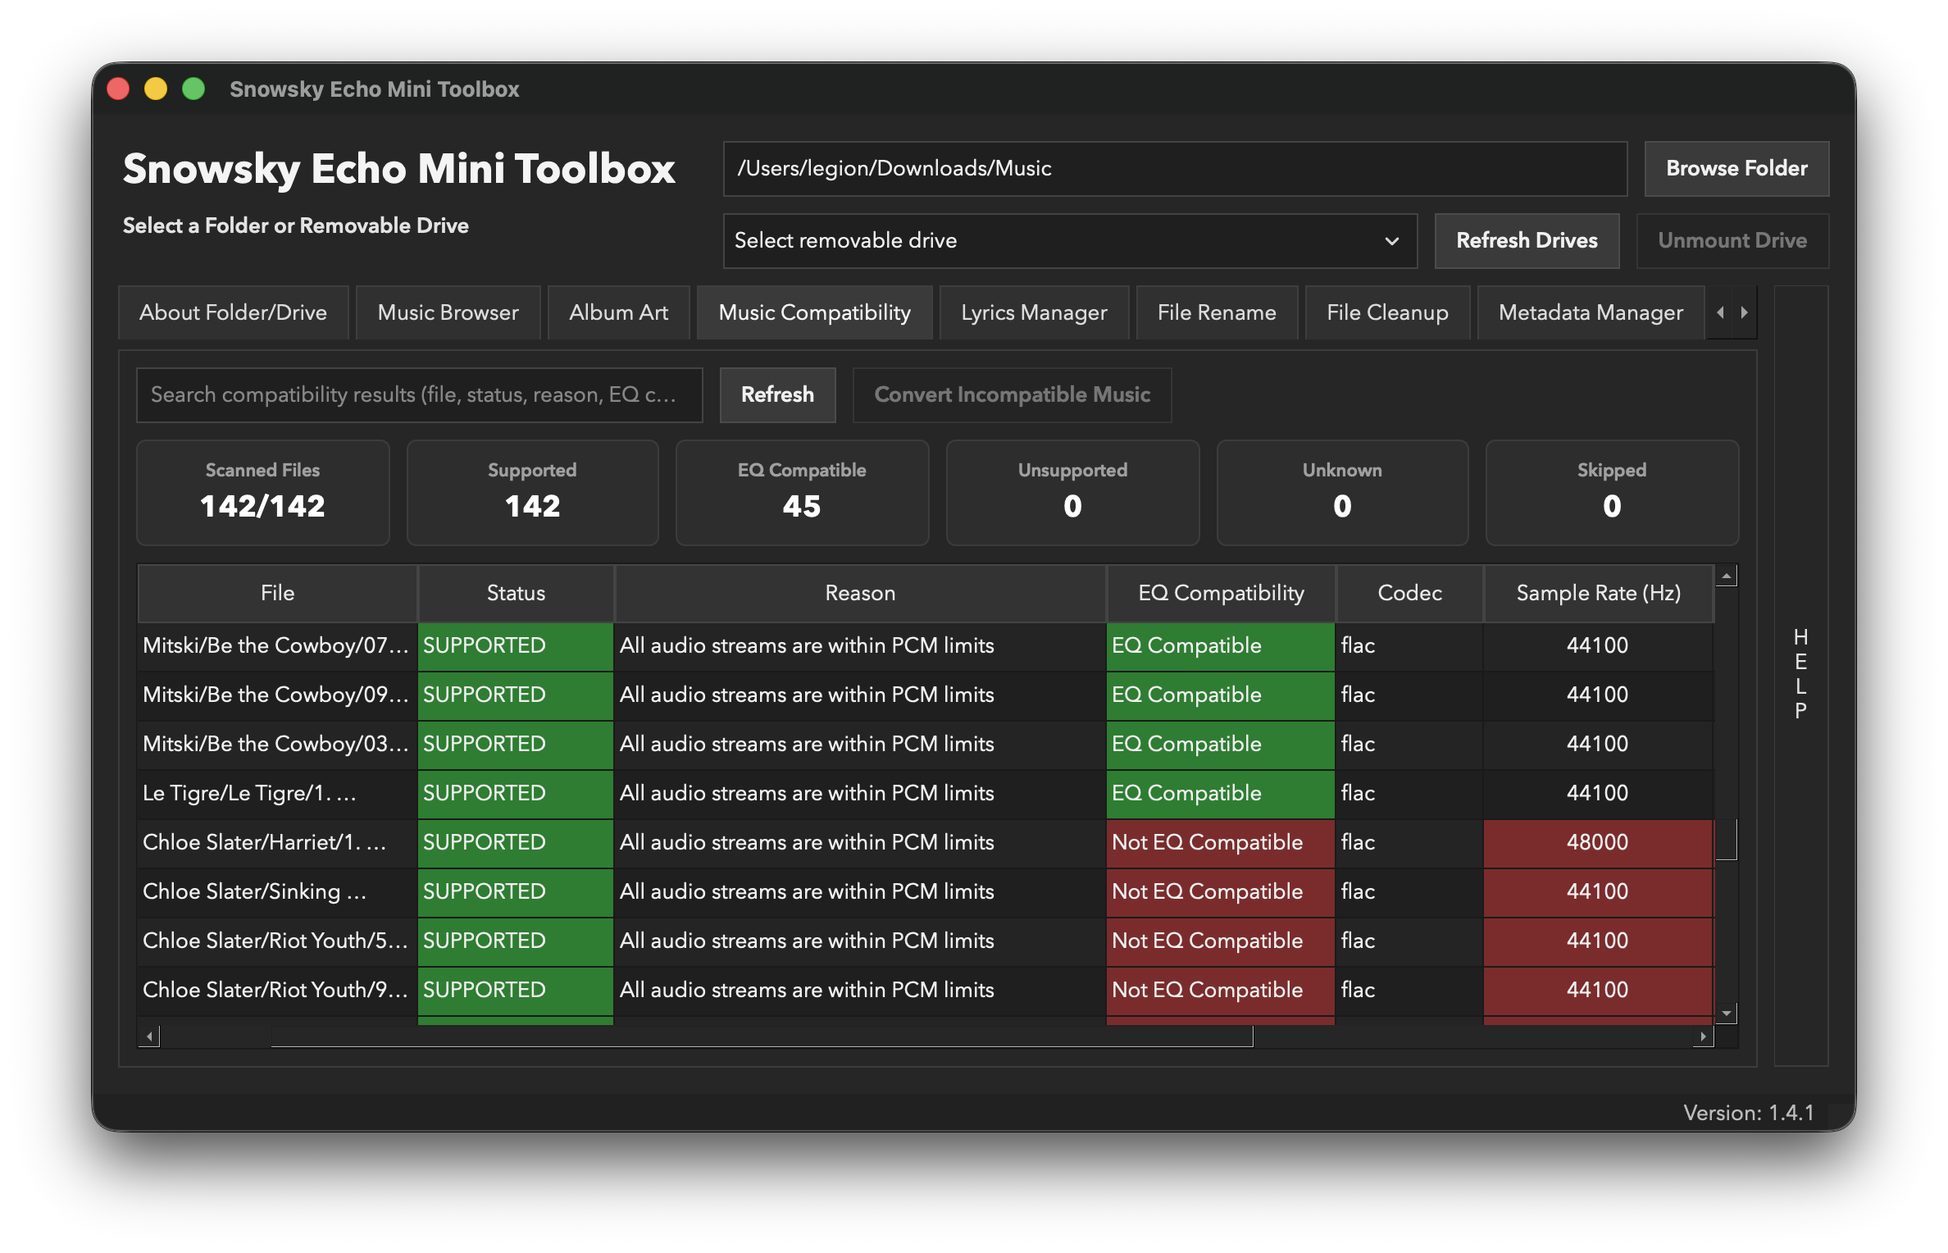
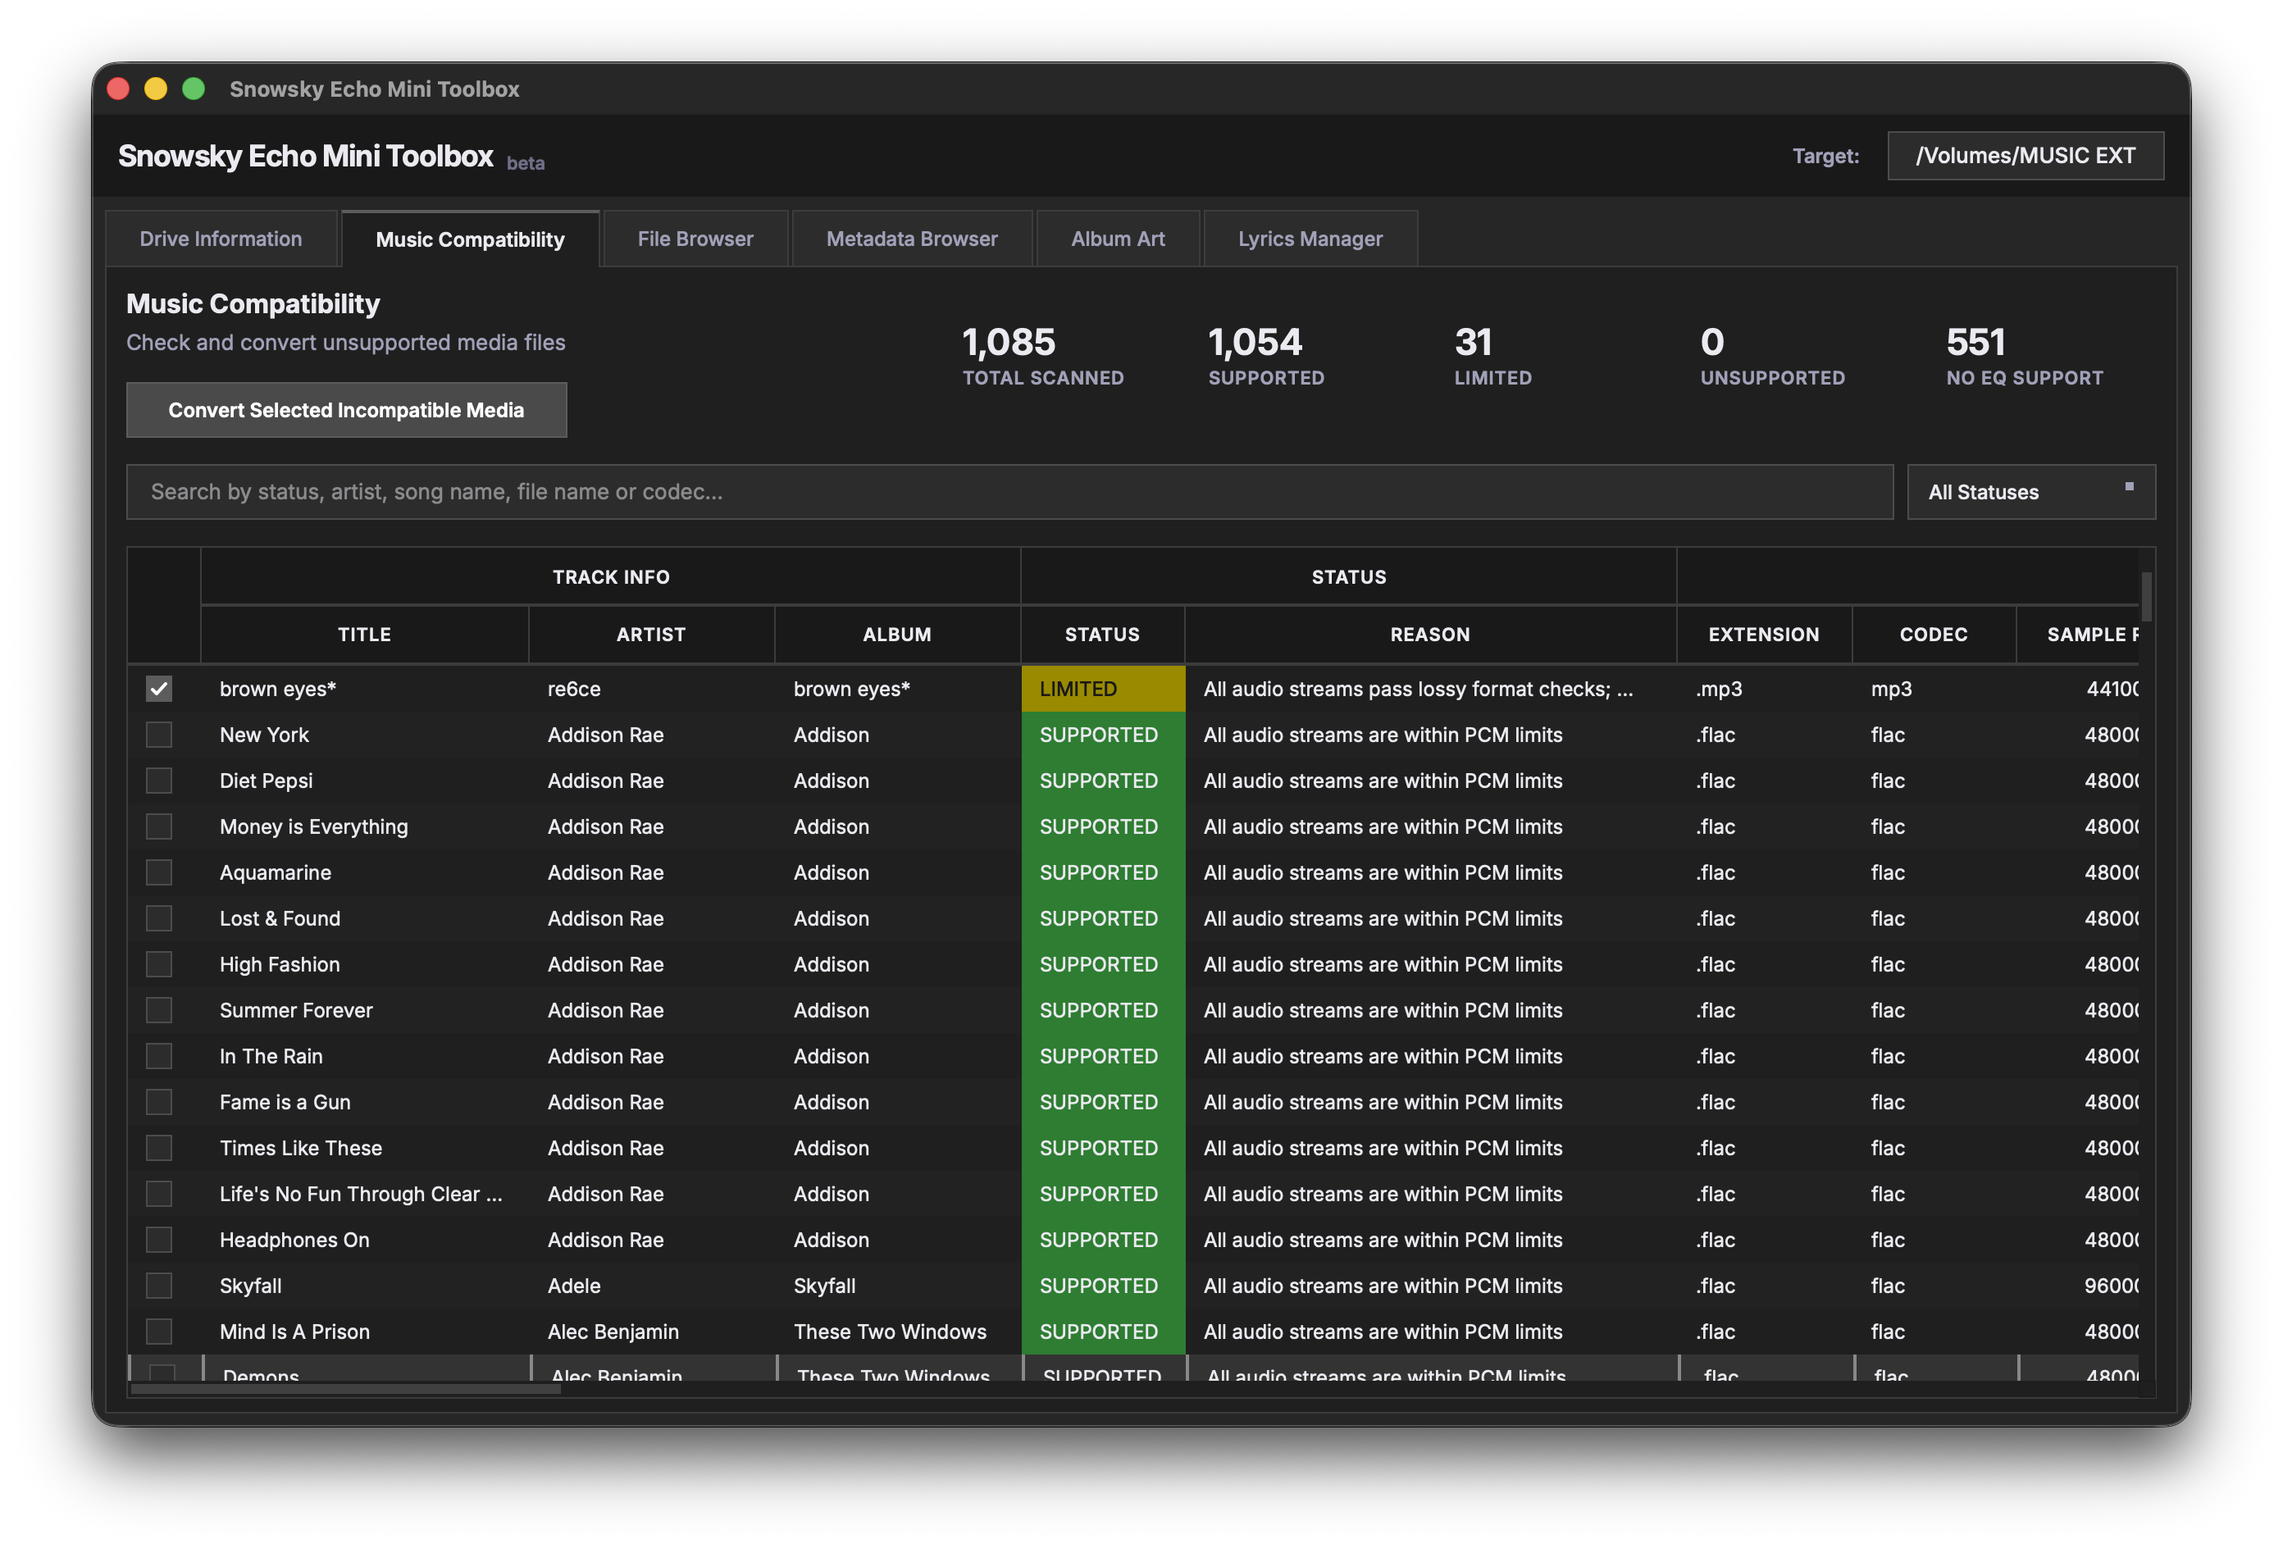
chore: update README with new features and improve project visibility; replace Overview image

diff --git a/README.md b/README.md
@@ -1,113 +1,142 @@
+<div align="center">
+
 # Snowsky Echo Mini Toolbox
 
-[![Python 3.12](https://img.shields.io/badge/python-3.12%2B-3776AB)](https://www.python.org/)
-[![Platforms](https://img.shields.io/badge/platform-macOS%20%7C%20Linux%20%7C%20Windows-0A7E07)](#requirements)
-[![UI](https://img.shields.io/badge/UI-PySide6-41CD52)](https://doc.qt.io/qtforpython-6/)
-![Status](https://img.shields.io/badge/status-active%20development-2ea44f)
+**Get your music library playing properly on the Snowsky Echo Mini, without the guesswork.**
 
-An easy (unofficial) desktop app to prepare your music folders and USB drives for the Snowsky Echo Mini. 
+[![Latest release](https://img.shields.io/github/v/release/silent-sphinx/snowsky-echo-mini-toolbox?display_name=tag&label=latest%20release&color=2ea44f)](https://github.com/silent-sphinx/snowsky-echo-mini-toolbox/releases/latest)
+[![Downloads](https://img.shields.io/github/downloads/silent-sphinx/snowsky-echo-mini-toolbox/total?label=downloads&color=0A7E07)](https://github.com/silent-sphinx/snowsky-echo-mini-toolbox/releases)
+[![Build](https://img.shields.io/github/actions/workflow/status/silent-sphinx/snowsky-echo-mini-toolbox/release.yml?label=build)](https://github.com/silent-sphinx/snowsky-echo-mini-toolbox/actions/workflows/release.yml)
+[![Open issues](https://img.shields.io/github/issues/silent-sphinx/snowsky-echo-mini-toolbox?color=orange)](https://github.com/silent-sphinx/snowsky-echo-mini-toolbox/issues)
 
-> This branch is a rewrite of the Snowsky Echo Mini Toolbox tool. Find the current software version in main.
+[![Python 3.12+](https://img.shields.io/badge/python-3.12%2B-3776AB?logo=python&logoColor=white)](https://www.python.org/)
+[![PySide6](https://img.shields.io/badge/UI-PySide6-41CD52?logo=qt&logoColor=white)](https://doc.qt.io/qtforpython-6/)
+[![Platforms](https://img.shields.io/badge/platform-macOS%20%7C%20Windows%20%7C%20Linux-0A7E07)](#2-download-the-app)
+[![Unofficial](https://img.shields.io/badge/status-unofficial%20community%20tool-8957e5)](#about-this-project)
 
-![Overview](Overview.png)
+[Get started](#get-started) · [Features](#features) · [Compatibility rules](COMPATIBILITY.md) · [Troubleshooting](#troubleshooting) · [Contributing](#contributing)
 
-The Snowsky Echo Mini is a fantastic little device, but its affordable hardware can sometimes limit compatibility and available features. This tool aims to remove the hassle of getting your music ready to play by automatically identifying incompatible media and converting it to a supported format. It can also fix album artwork and download lyrics, giving you everything you need to enjoy your music without the usual compatibility headaches.
+![Overview of the Snowsky Echo Mini Toolbox interface](Overview.png)
 
-<!-- TOC -->
+</div>
 
-- [Snowsky Echo Mini Toolbox](#snowsky-echo-mini-toolbox)
-    - [Main Features](#main-features)
-    - [Please Backup Your Data](#please-backup-your-data)
-    - [Installation](#installation)
-        - [Required Dependencies Linux Only](#required-dependencies-linux-only)
-        - [Supported Operating Systems](#supported-operating-systems)
-            - [Notice for Windows Users](#notice-for-windows-users)
-                - [Setup Instructions](#setup-instructions)
-    - [Build from source](#build-from-source)
-    - [Compatibility Rules](#compatibility-rules)
-    - [Contributing](#contributing)
-    - [Troubleshooting](#troubleshooting)
-        - [macOS App Fails to Open Stuck Bouncing in Dock](#macos-app-fails-to-open-stuck-bouncing-in-dock)
+The Snowsky Echo Mini is a fantastic little player, but its affordable hardware brings real limits: only certain codecs play, album art has to be encoded a very specific way, and unusual tags can confuse the on-device browser. Tracks that work everywhere else can silently refuse to appear.
 
-<!-- /TOC -->
+This toolbox points at a folder or USB drive, scans everything in it, and tells you exactly what the device will reject, then fixes it for you. Convert incompatible audio, repair or download album art, tidy metadata, and get lyrics in place, all without touching a command line.
 
-## Main Features
+> [!NOTE]
+> This is the `v2` branch, a ground-up rewrite of the app. The version published on the [Releases page](https://github.com/silent-sphinx/snowsky-echo-mini-toolbox/releases/latest) is built from `main` and is what you should install today. See [Rewrite status](#rewrite-status) for what has landed in the rewrite so far.
 
-- **Music Compatibility**:
-  - Identify incompatible media and auto-fix.
-- **Album Art**:
-  - Identify incompatible album art and auto-fix.
-  - Download new album art via the MusicBrainz API and Cover Art Archive.
-- **Lyrics Manager**:
-  - Identify embedded lyrics and convert them to compatible `.lrc` files.
-  - Download new lyrics via LRCLIB bulk lookup.
-- **Metadata Manager**:
-  - Edit audio tags and properties in bulk.
-- **File Rename**:
-  - Suggest cleaner file names from metadata before applying changes.
-- **File Cleanup**:
-  - Group files by type so you can safely remove unwanted categories.
-- **Backup & Restore**:
-  - Create ZIP backups, or copy/move your library to another location.
+## Get started
 
-## Please Backup Your Data
+### 1. Back up your music first
 
-- This program will directly edit music files on your selected device. This can result in unintended data loss, it is always RECOMMENDED to use the backup tools provided to ensure you have a second copy of your data in-case of failure.
+> [!WARNING]
+> This program edits music files on your device in place. Conversions, tag edits, and artwork fixes overwrite real data. Always keep a second copy of your library before running a fix. The built-in Backup/Restore tools can create one for you.
 
-## Installation
+### 2. Download the app
 
-Locate the Releases page for this project and select the correct installation file for your system architecture.
+Grab the file for your system from the [latest release](https://github.com/silent-sphinx/snowsky-echo-mini-toolbox/releases/latest). No Python, no ffmpeg install, nothing else to set up. Everything is bundled.
 
-### Required Dependencies (Linux Only)
+| Your system | Download | Install |
+| --- | --- | --- |
+| macOS (Apple Silicon) | `...macOS-arm64.dmg` | [Extra step required](#macos-first-launch) |
+| macOS (Intel) | `...macOS-x64.dmg` | [Extra step required](#macos-first-launch) |
+| Windows (64-bit) | `...Windows-Setup.exe` | [Please read first](#windows-smart-app-control) |
+| Linux (amd64, Debian/Ubuntu) | `..._amd64.deb` | `sudo apt install ./<file>.deb` |
+| Linux (amd64, portable) | `...linux-amd64.tar.gz` | [Extra libraries required](#linux-portable-tarball) |
+
+### 3. Point it at your music
+
+Launch the app and pick a target when prompted: either your Echo Mini's USB drive or any folder on your computer. The toolbox scans it once, then every tab works from that single scan.
+
+From there, work through the tabs that flag problems. Each one shows you what it found before it changes anything.
+
+## Features
+
+- **Drive information**: capacity, file counts, and a breakdown of what is actually on the device.
+- **Music compatibility**: deep `ffprobe` analysis of every track against the device's real firmware limits, with one-click conversion of anything unsupported.
+- **File browser**: inspect any file's properties, tags, embedded artwork, and lyrics side by side.
+- **Metadata browser**: edit and normalise audio tags in bulk, including the non-standard tags that confuse the device's parser.
+- **Album art**: find artwork the device cannot display (wrong format, progressive JPEG, oversized), auto-fix it, or download replacements from MusicBrainz and the Cover Art Archive.
+- **Lyrics manager**: convert embedded lyrics into device-readable `.lrc` files and fetch missing ones from LRCLIB.
+- **File rename**: propose cleaner filenames from metadata, with a preview before anything is applied.
+- **File cleanup**: group files by type so unwanted categories can be removed safely.
+- **Backup & restore**: create ZIP backups, or copy and move your library elsewhere.
+
+Artwork and lyrics lookups are the only features that use the network, and only when you start them.
+
+### Rewrite status
+
+The `v2` rewrite is being rebuilt tab by tab. Everything below already ships in the current release; this table tracks the rewrite itself.
+
+| Area | `v2` status |
+| --- | --- |
+| Drive information | Implemented |
+| Music compatibility & conversion | Implemented |
+| File browser | Implemented |
+| Metadata browser | Implemented |
+| Album art (fix & download) | Implemented |
+| Lyrics manager | Placeholder tab, not yet ported |
+| File rename, cleanup, backup & restore | Not yet ported |
+
+## Device compatibility
+
+[COMPATIBILITY.md](COMPATIBILITY.md) documents every rule the compatibility checker applies: supported codecs, sample rates, bit depths, album art encoding, filename edge cases, and which tags the device actually reads.
+
+The findings behind those rules, gathered by reverse-engineering the device firmware, are in [SNOWSKY-FIRMWARE.md](SNOWSKY-FIRMWARE.md).
+
+## Troubleshooting
+
+### macOS first launch
+
+Release builds are unsigned, so Gatekeeper blocks them. The usual symptom is the icon bouncing in the Dock forever without a window appearing.
+
+1. **Delete any old copy first.** If you are upgrading, drag the existing `Snowsky Echo Mini Toolbox.app` from `/Applications` to the Trash rather than overwriting it. Replacing in place causes path-level cache conflicts.
+2. **Clear the quarantine flag** on the downloaded DMG before mounting it (adjust the filename to match your download):
+
+   ```bash
+   xattr -cr ~/Downloads/snowsky-echo-mini-toolbox-macOS-arm64.dmg
+   ```
+
+3. **Mount and install.** Double-click the cleared `.dmg` and drag the app into `/Applications`.
+4. **Open it.** The app should now launch normally.
+
+### Windows Smart App Control
+
+Windows Smart App Control blocks executables from small developers, with no per-app override. Turning SAC off is not something we recommend, so while the `.exe` installer is still published, the more reliable route on an affected machine is [running from source](#running-from-source).
+
+We know this is inconvenient. Microsoft's tightening restrictions on unsigned executables make small community tools genuinely hard to distribute, and we are looking into longer-term signing options.
+
+### Linux portable tarball
+
+The `.deb` package pulls in what it needs automatically. For the portable `.tar.gz`, install the Qt runtime libraries yourself:
 
 ```bash
-sudo apt-get update && sudo apt-get install -y ffmpeg libxkbcommon-x11-0 libxcb-cursor0 libxcb-icccm4 libxcb-image0 libxcb-keysyms1 libxcb-render-util0 libxcb-xkb1
+sudo apt-get update && sudo apt-get install -y libxkbcommon-x11-0 libxcb-cursor0 libxcb-icccm4 libxcb-image0 libxcb-keysyms1 libxcb-render-util0 libxcb-xkb1
 ```
 
-### Supported Operating Systems
+### Nothing here matches your problem
 
-The following operating systems & architectures are offically supported.
+Open an [issue](https://github.com/silent-sphinx/snowsky-echo-mini-toolbox/issues) with your OS, the release you installed, and what you were doing when it went wrong.
 
-| Operating System | Architecture | Format |
-| ---- | ---- | ---- |
-| Windows | 64-bit | Installation (.exe) |
-| Linux   | - | .tar.gz & .deb |
-| MacOS | ARM64 (Apple Silicon) | .dmg |
-| MacOS | x64 Intel | .dmg |
+## Running from source
 
-#### Notice for Windows Users
+Useful if you are developing, or if Smart App Control is blocking the Windows installer.
 
-Unfortunately, Windows Smart App Control blocks executables from small developers with no user override. Disabling SAC is not recommended, so whilst the `.exe` remains available, it is strongly recommended to clone the repository and run the program via Python directly.
+**Requirements**
 
-##### Setup Instructions
+- Python 3.12 or newer (3.12 recommended)
+- `ffmpeg` and `ffprobe` available on your `PATH`. Release builds bundle these, source checkouts do not.
 
-1. Install ffmpeg via winget: `winget install -e --id Gyan.FFmpeg`
-   — or download it manually from https://github.com/BtbN/FFmpeg-Builds/releases
-2. Ensure Python 3.12 is installed
-3. Clone the repository: `git clone https://github.com/silent-sphinx/snowsky-echo-mini-toolbox.git`
-   — or download the `.zip` from the GitHub page
-4. Create a virtual environment and run the program:
+Install ffmpeg with `winget install -e --id Gyan.FFmpeg` on Windows, `brew install ffmpeg` on macOS, or `sudo apt-get install -y ffmpeg` on Debian/Ubuntu.
+
+**Setup**
 
 ```bash
-py -3.12 -m venv venv
-.\venv\Scripts\Activate.ps1
-pip install -r requirements.txt
-.\venv\Scripts\python main.py
+git clone https://github.com/silent-sphinx/snowsky-echo-mini-toolbox.git
+cd snowsky-echo-mini-toolbox
 ```
-
-We apologise for the inconvenience. Microsoft's increasing restrictions on unsigned executables make it genuinely difficult to distribute small community tools easily, and we're actively looking into longer-term solutions.
-
-## Build from source
-
-This project is developed in Python 3.12+, and using Python 3.12 is recommended.
-
-Note: If `pip install -r requirements.txt` fails, ensure your active Python interpreter is
-Python 3.12. On Windows, the Python launcher can help (e.g. `py -3.12 -m venv venv`).
-
-1. Ensure that ffmpeg is installed (for ffmpeg/ffprobe)
-2. Clone the repository.
-3. Create and activate a virtual environment.
-4. Install dependencies.
 
 macOS and Linux:
 
@@ -115,6 +144,7 @@ macOS and Linux:
 python3 -m venv venv
 source venv/bin/activate
 pip install -r requirements.txt
+python3 main.py
 ```
 
 Windows PowerShell:
@@ -123,54 +153,24 @@ Windows PowerShell:
 py -3.12 -m venv venv
 .\venv\Scripts\Activate.ps1
 pip install -r requirements.txt
+.\venv\Scripts\python main.py
 ```
 
-Start the app:
-
-```bash
-python3 main.py
-```
-
-Start with a pre-selected target path:
-
-```bash
-python3 main.py --path /path/to/folder-or-drive
-```
-
-## Compatibility Rules
-
-Full technical rules are in [COMPATIBILITY.md](COMPATIBILITY.md).
+If `pip install -r requirements.txt` fails, check that the active interpreter really is Python 3.12. On Windows, the `py -3.12` launcher is the easiest way to be sure.
 
 ## Contributing
 
 Contributions are welcome.
 
-Basic flow:
-
 1. Open an issue describing the change or bug.
-2. Create a focused branch.
-3. Keep pull requests small and include test or validation steps.
-4. Update documentation when behavior changes.
+2. Work on a focused branch.
+3. Keep pull requests small, and include test or validation steps.
+4. Update the documentation when behaviour changes.
 
-If you add a new tab or workflow, include:
+If you are adding a new tab or workflow, describe what users will see and do, how errors are surfaced, and any dependency or platform notes.
 
-- What users will see and do
-- How errors are handled
-- Any dependency or platform notes
+Found a security issue? Please follow [SECURITY.md](SECURITY.md) and report it privately rather than opening a public issue.
 
-## Troubleshooting
+## About this project
 
-### macOS App Fails to Open (Stuck Bouncing in Dock)
-
-If you download the macOS `.dmg` release from GitHub, you might find that the application icon bounces in the Dock indefinitely and never opens the main window. This is caused by macOS Gatekeeper blocking the execution of unsigned developer builds.
-
-To resolve this issue:
-
-1. **Delete any old version first:** If you are upgrading from a previous release, do **not** simply drag-and-replace (overwrite) the app. Drag the old `Snowsky Echo Mini Toolbox.app` from your `/Applications` folder to the Trash first to avoid macOS path-level cache conflicts.
-2. **Clear the quarantine flag on the installer:** Before mounting the DMG, open your Terminal and run the following command to remove the macOS quarantine attribute from the downloaded DMG file:
-   ```bash
-   xattr -cr ~/Downloads/snowsky-echo-mini-toolbox-dev-macOS-arm64.dmg
-   ```
-   *(If your downloaded file has a different name, make sure to adjust the filename in the command).*
-3. **Mount and Install:** Double-click the cleared `.dmg` to mount it, and drag `Snowsky Echo Mini Toolbox.app` into `/Applications`.
-4. **Open the App:** It should now open immediately!
+An unofficial, community-built tool. It is not affiliated with, endorsed by, or supported by Snowsky or its manufacturer.
